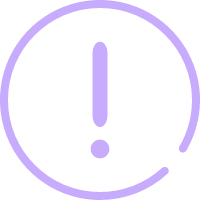
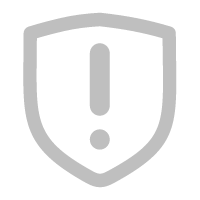
新增注销

diff --git a/package_im/lib/pages/profile/profile_page.dart b/package_im/lib/pages/profile/profile_page.dart
@@ -381,6 +381,15 @@ class _ProfilePageState extends State<ProfilePage> {
               _showAboutDialog();
             },
           ),
+          const Divider(height: 1, indent: 56),
+          _buildSettingItem(
+            imagePath: 'assets/images/icon_logout.png',
+            title: '删除账号',
+            titleColor: Colors.red,
+            onTap: () {
+              _showDeleteAccountDialog();
+            },
+          ),
         ],
       ),
     );
@@ -435,6 +444,7 @@ class _ProfilePageState extends State<ProfilePage> {
     IconData? icon,
     String? imagePath,
     required String title,
+    Color? titleColor,
     required VoidCallback onTap,
   }) {
     return ListTile(
@@ -443,10 +453,13 @@ class _ProfilePageState extends State<ProfilePage> {
               imagePath,
               width: 24,
               height: 24,
-              color: Colors.grey[600],
+              color: titleColor ?? Colors.grey[600],
             )
-          : Icon(icon, color: Colors.grey[600]),
-      title: Text(title),
+          : Icon(icon, color: titleColor ?? Colors.grey[600]),
+      title: Text(
+        title,
+        style: TextStyle(color: titleColor),
+      ),
       trailing: Icon(Icons.arrow_forward_ios, size: 16, color: Colors.grey[400]),
       onTap: onTap,
     );
@@ -744,6 +757,185 @@ class _ProfilePageState extends State<ProfilePage> {
         );
       },
     );
+  }
+
+  /// 显示删除账号对话框
+  /// 
+  /// 根据 Apple 审核指南 5.1.1(v)，应用必须提供账号删除功能
+  /// 需要明确告知用户删除账号的后果，并提供二次确认
+  void _showDeleteAccountDialog() {
+    showDialog(
+      context: context,
+      builder: (BuildContext context) {
+        return AlertDialog(
+          title: const Row(
+            children: [
+              Icon(Icons.warning_amber_rounded, color: Colors.red, size: 28),
+              SizedBox(width: 8),
+              Text('删除账号'),
+            ],
+          ),
+          content: const Column(
+            mainAxisSize: MainAxisSize.min,
+            crossAxisAlignment: CrossAxisAlignment.start,
+            children: [
+              Text(
+                '删除账号后，以下数据将被永久删除且无法恢复：',
+                style: TextStyle(fontWeight: FontWeight.bold),
+              ),
+              SizedBox(height: 12),
+              Text('• 个人信息（头像、昵称、邮箱等）'),
+              Text('• 所有发布的动态和评论'),
+              Text('• 聊天记录和会话'),
+              Text('• 好友关系'),
+              Text('• 关注和粉丝'),
+              SizedBox(height: 12),
+              Text(
+                '此操作不可逆，请谨慎操作！',
+                style: TextStyle(
+                  color: Colors.red,
+                  fontWeight: FontWeight.bold,
+                ),
+              ),
+            ],
+          ),
+          actions: [
+            TextButton(
+              onPressed: () {
+                Navigator.of(context).pop();
+              },
+              child: const Text('取消'),
+            ),
+            TextButton(
+              onPressed: () {
+                Navigator.of(context).pop();
+                _showDeleteAccountConfirmDialog();
+              },
+              child: const Text(
+                '继续删除',
+                style: TextStyle(color: Colors.red),
+              ),
+            ),
+          ],
+        );
+      },
+    );
+  }
+
+  /// 显示删除账号确认对话框（第二次确认）
+  /// 
+  /// 要求用户输入"删除"来确认操作，防止误操作
+  void _showDeleteAccountConfirmDialog() {
+    final TextEditingController confirmController = TextEditingController();
+    bool isButtonEnabled = false;
+
+    showDialog(
+      context: context,
+      builder: (BuildContext dialogContext) {
+        return StatefulBuilder(
+          builder: (context, setState) {
+            return AlertDialog(
+              title: const Text('确认删除'),
+              content: Column(
+                mainAxisSize: MainAxisSize.min,
+                crossAxisAlignment: CrossAxisAlignment.start,
+                children: [
+                  const Text(
+                    '请在下方输入框中输入"删除"以确认删除账号：',
+                    style: TextStyle(fontSize: 14),
+                  ),
+                  const SizedBox(height: 16),
+                  TextField(
+                    controller: confirmController,
+                    decoration: InputDecoration(
+                      hintText: '请输入"删除"',
+                      border: const OutlineInputBorder(),
+                      errorText: isButtonEnabled ? null : '',
+                      errorStyle: const TextStyle(height: 0),
+                    ),
+                    onChanged: (value) {
+                      setState(() {
+                        isButtonEnabled = value.trim() == '删除';
+                      });
+                    },
+                  ),
+                  const SizedBox(height: 8),
+                  const Text(
+                    '温馨提示：删除后无法恢复',
+                    style: TextStyle(
+                      fontSize: 12,
+                      color: Colors.grey,
+                    ),
+                  ),
+                ],
+              ),
+              actions: [
+                TextButton(
+                  onPressed: () {
+                    Navigator.of(dialogContext).pop();
+                  },
+                  child: const Text('取消'),
+                ),
+                TextButton(
+                  onPressed: isButtonEnabled
+                      ? () async {
+                          Navigator.of(dialogContext).pop();
+                          await _deleteAccount();
+                        }
+                      : null,
+                  child: Text(
+                    '确认删除',
+                    style: TextStyle(
+                      color: isButtonEnabled ? Colors.red : Colors.grey,
+                    ),
+                  ),
+                ),
+              ],
+            );
+          },
+        );
+      },
+    );
+  }
+
+  /// 执行删除账号操作
+  Future<void> _deleteAccount() async {
+    try {
+      // 显示加载
+      EasyLoading.show(status: '注销中...');
+
+      // 调用删除账号API
+      final response = await _apiService.deleteAccount();
+
+      EasyLoading.dismiss();
+
+      if (response.success) {
+        // 删除成功，显示服务器返回的消息
+        final successMessage = response.data ?? '账号已注销';
+        EasyLoading.showSuccess(successMessage);
+
+        // 延迟一下再跳转
+        await Future.delayed(const Duration(milliseconds: 500));
+
+        // 返回登录页面
+        if (mounted) {
+          Navigator.of(context).pushAndRemoveUntil(
+            MaterialPageRoute(
+              builder: (context) => const LoginPage(),
+            ),
+            (route) => false,
+          );
+        }
+      } else {
+        // 删除失败
+        EasyLoading.showError(
+          response.message.isNotEmpty ? response.message : '注销失败，请重试',
+        );
+      }
+    } catch (e) {
+      EasyLoading.dismiss();
+      EasyLoading.showError('删除失败: $e');
+    }
   }
 }
 

diff --git a/package_im/lib/services/api_service.dart b/package_im/lib/services/api_service.dart
@@ -130,6 +130,18 @@ class ApiService {
         debugPrint('登录成功: ${_currentUser?.nickname}');
         debugPrint('Token: $_token');
         debugPrint('数据已保存到本地存储');
+      } else {
+        // 登录失败，显示错误信息
+        String errorMessage = response.message;
+        
+        // 特殊处理：账号被禁用的情况
+        if (errorMessage.contains('禁用') || errorMessage.contains('已被停用')) {
+          errorMessage = '该账号已被注销或禁用，无法登录';
+        } else if (errorMessage.isEmpty) {
+          errorMessage = '登录失败，请检查用户名和密码';
+        }
+        
+        debugPrint('登录失败: $errorMessage');
       }
 
       return response;
@@ -217,6 +229,46 @@ class ApiService {
       _currentUser = null;
       _httpManager.clearToken();
       await _storageManager.clearLoginData();
+    }
+  }
+
+  /// 删除账号（注销账号）
+  /// 
+  /// 根据 Apple 审核要求，应用必须提供账号删除功能
+  /// 此操作不可逆，会永久删除用户的所有数据
+  Future<ApiResponse<String>> deleteAccount() async {
+    try {
+      debugPrint('请求注销账号');
+
+      final response = await _httpManager.post<String>(
+        ApiConfig.deleteAccountPath,
+        data: {},
+        showLoading: true,
+        fromJson: (json) {
+          // 解析返回的 data 字段（"账号注销成功"）
+          if (json is String) {
+            return json;
+          }
+          return json.toString();
+        },
+      );
+
+      debugPrint('注销账号响应: ${response.message}');
+
+      if (response.success) {
+        // 删除成功后清除本地数据
+        _token = null;
+        _currentUser = null;
+        _httpManager.clearToken();
+        await _storageManager.clearLoginData();
+        
+        debugPrint('账号注销成功，已清除所有本地数据');
+      }
+
+      return response;
+    } catch (e) {
+      debugPrint('注销账号失败: $e');
+      rethrow;
     }
   }
 

diff --git a/package_im/lib/pages/login/login_page.dart b/package_im/lib/pages/login/login_page.dart
@@ -85,9 +85,16 @@ class _LoginPageState extends State<LoginPage> {
             }
           } else {
             // 登录失败，显示错误信息
-            EasyLoading.showError(response.message.isNotEmpty 
-                ? response.message 
-                : '登录失败，请重试');
+            String errorMessage = response.message;
+            
+            // 特殊处理：账号被禁用的情况
+            if (errorMessage.contains('禁用') || errorMessage.contains('已被停用')) {
+              errorMessage = '该账号已被注销，无法登录\n如需使用请重新注册';
+            } else if (errorMessage.isEmpty) {
+              errorMessage = '登录失败，请检查用户名和密码';
+            }
+            
+            EasyLoading.showError(errorMessage);
           }
         }
       } catch (e) {

diff --git a/package_im/lib/network/http_manager.dart b/package_im/lib/network/http_manager.dart
@@ -220,6 +220,10 @@ class HttpManager {
       if (showLoading) {
         EasyLoading.dismiss();
       }
+      if (path.contains('login')) {
+        Map<String, dynamic> errorData = {"code": -1, "message": "登录失败", "success": false};
+        return ApiResponse.fromJson(errorData, fromJson);
+      }
       rethrow;
     }
   }

diff --git a/package_im/lib/network/api_config.dart b/package_im/lib/network/api_config.dart
@@ -41,6 +41,9 @@ class ApiConfig {
   // 更新用户信息
   static const String updateUserInfoPath = '/api/auth/profile';
   
+  // 删除账号（注销账号）
+  static const String deleteAccountPath = '/api/auth/deactivate';
+  
   // 文件上传
   static const String uploadSingleFilePath = '/api/files/upload/single';
   

diff --git a/package_im/lib/pages/discover/discover_page.dart b/package_im/lib/pages/discover/discover_page.dart
@@ -660,7 +660,7 @@ class _RecommendTabState extends State<_RecommendTab> {
             ),
           ),
           if (moment.mediaUrls.isNotEmpty) ...[
-            const SizedBox(height: 12),
+            // const SizedBox(height: 12),
             // 图片
             _buildImageGrid(moment.mediaUrls),
           ],
